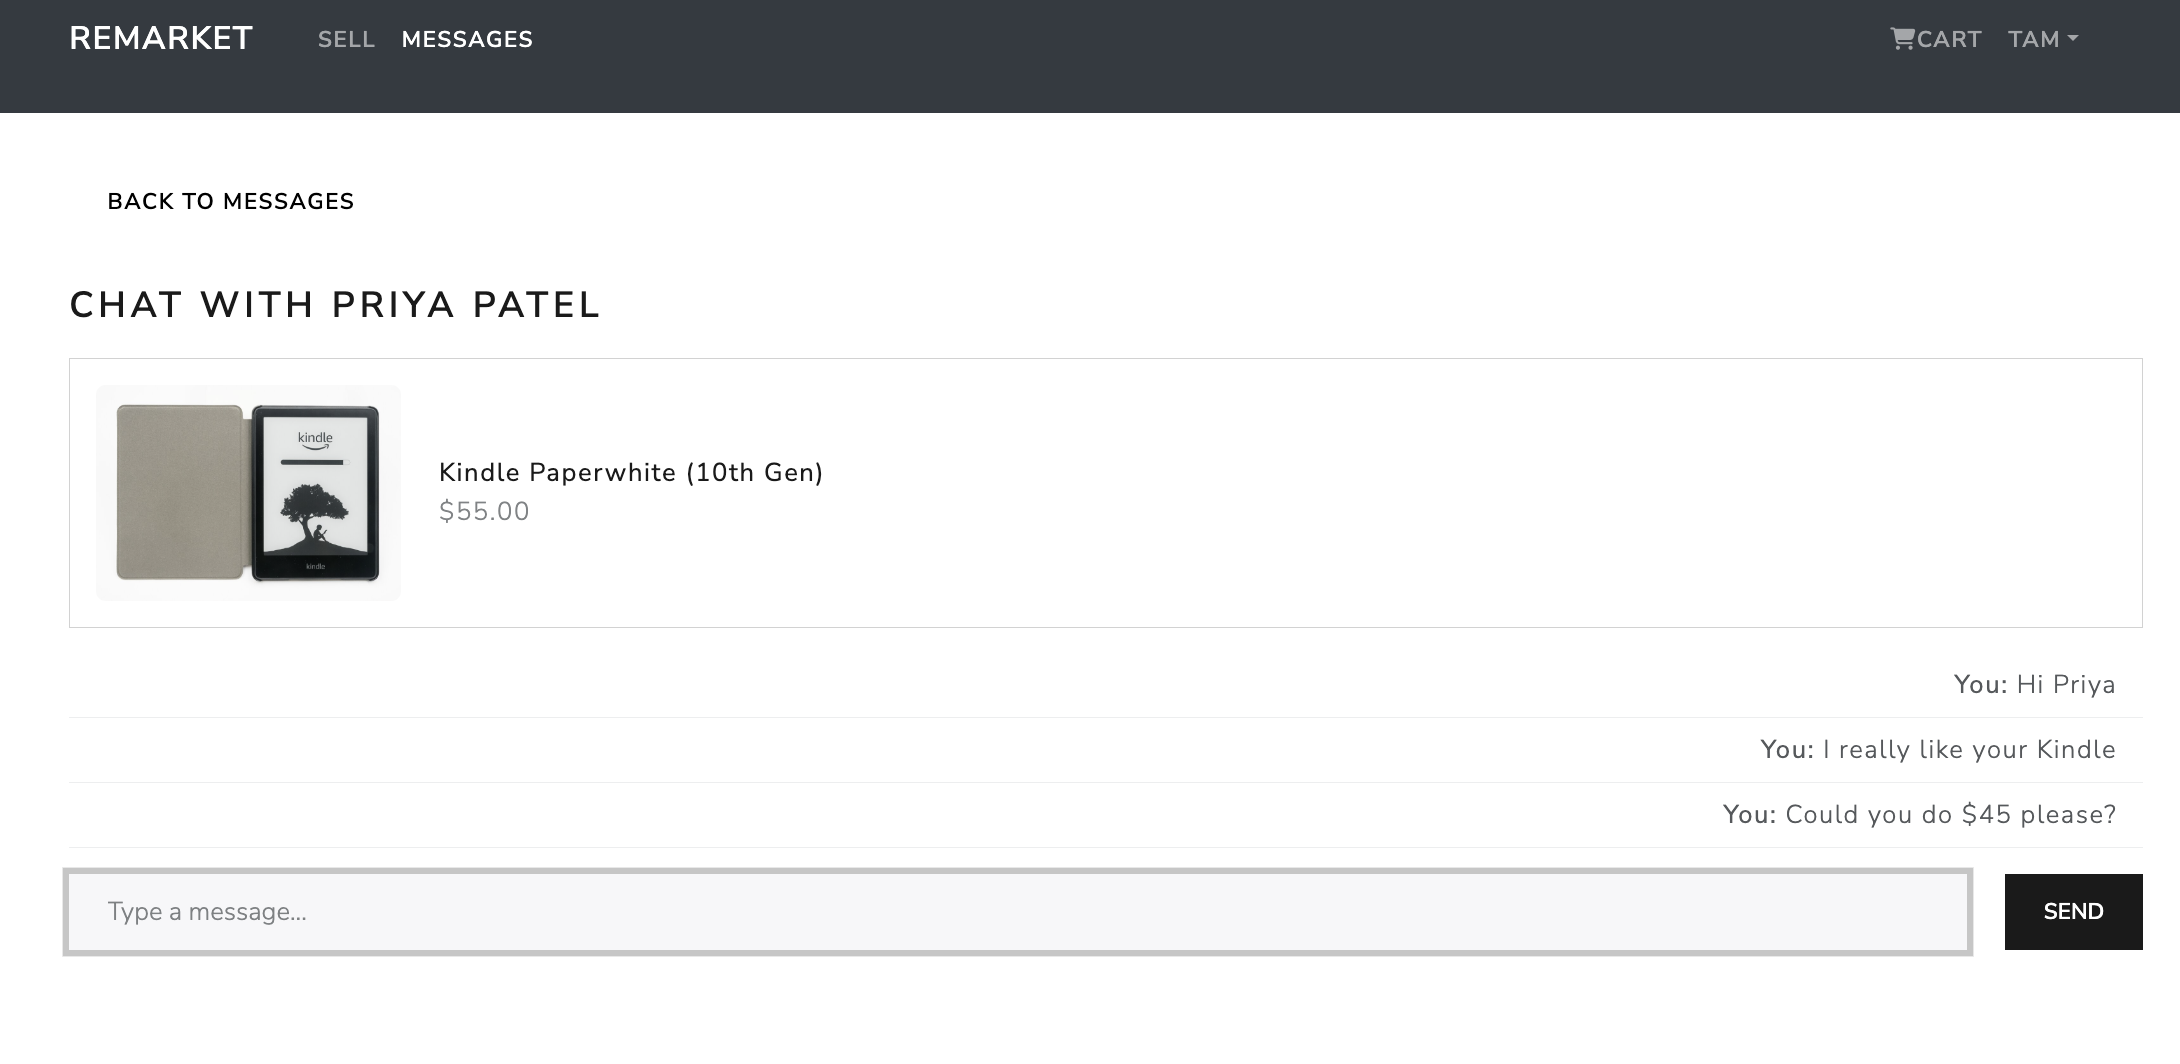
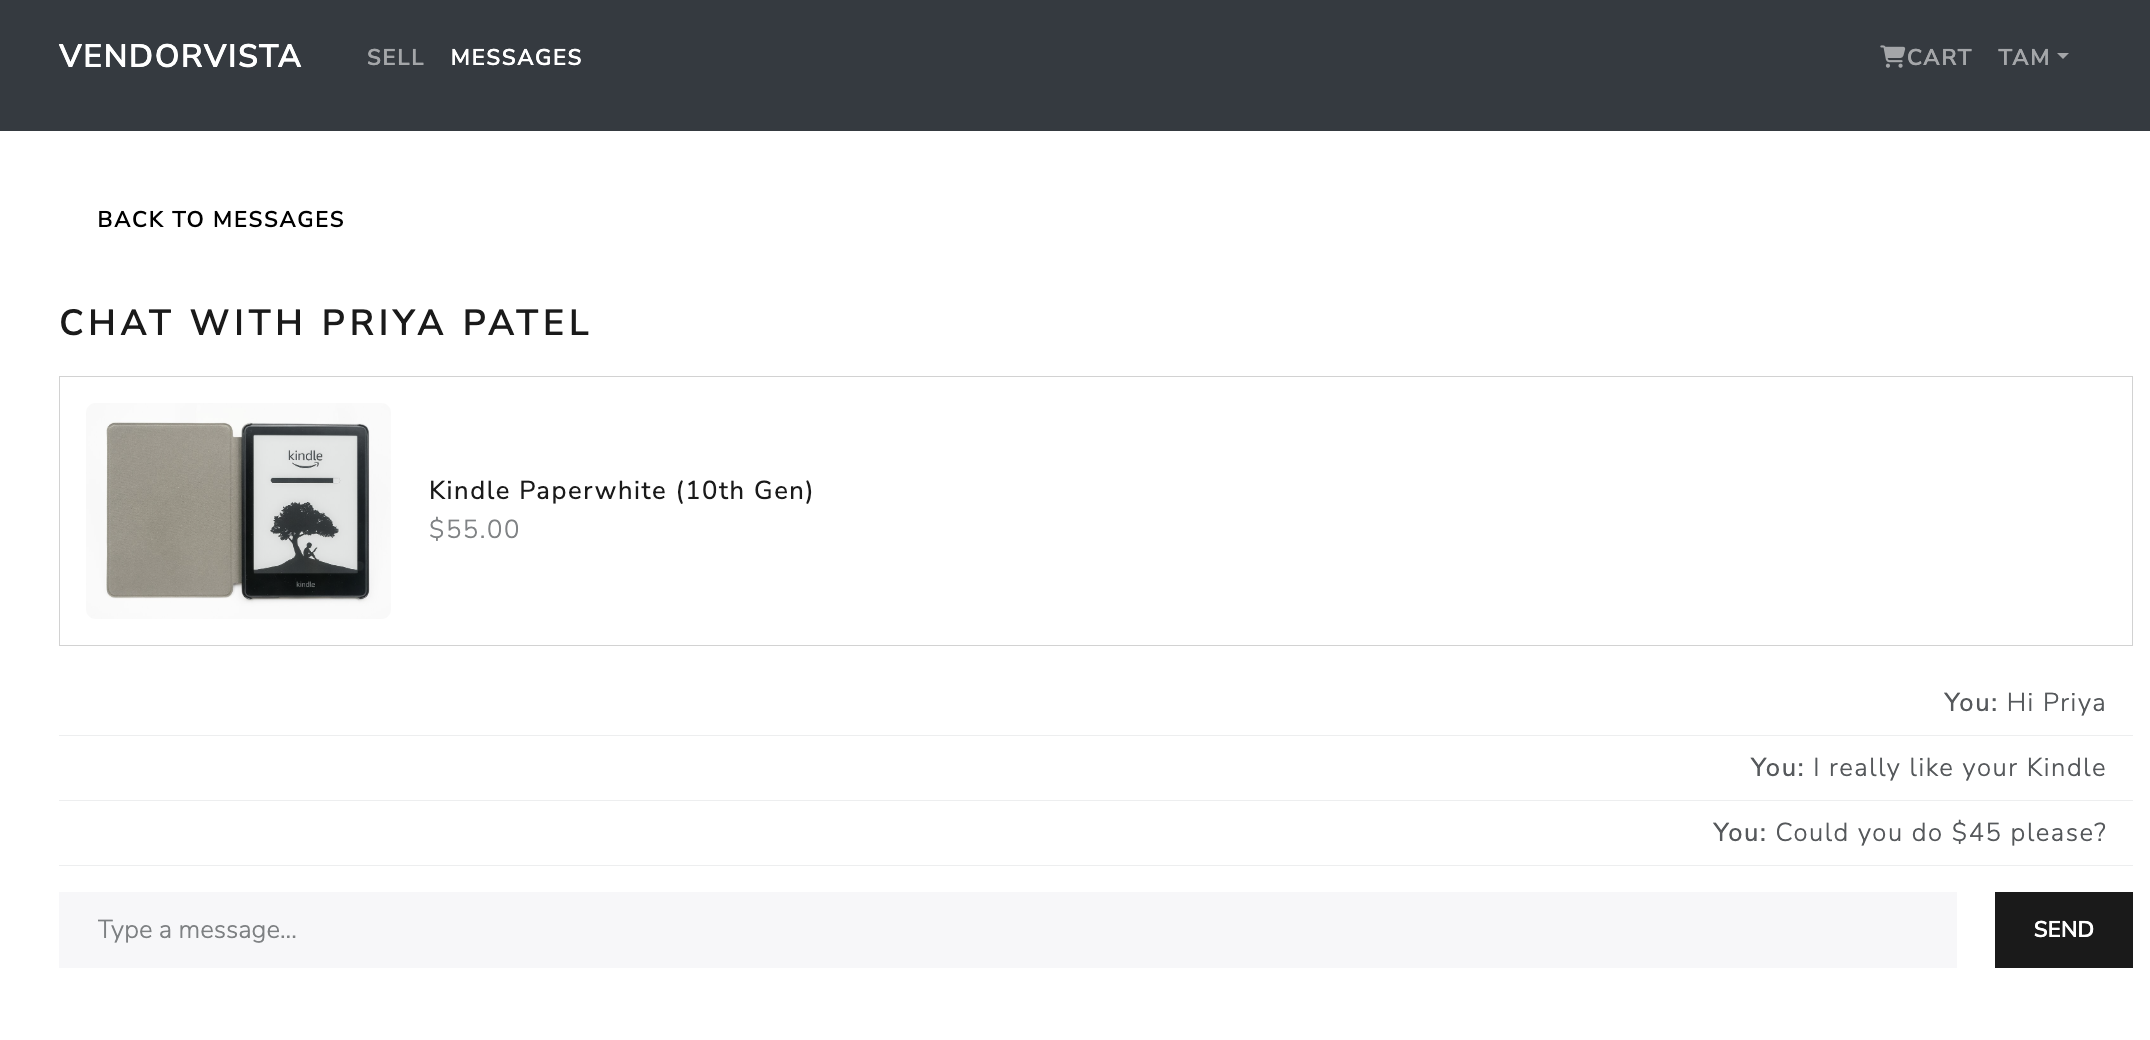
Rebrand to VendorVista, drop redundant product rating, update demo screenshots

diff --git a/frontend/src/screens/ProductScreen.js b/frontend/src/screens/ProductScreen.js
@@ -99,9 +99,6 @@ function ProductScreen() {
                         )}
                     </ListGroup.Item>
                     <ListGroup.Item>
-                        <Rating value={product.rating} text={`${product.numReviews} reviews`} color={'#f8e825'}/>
-                    </ListGroup.Item>
-                    <ListGroup.Item>
                         Price: ${product.price}
                     </ListGroup.Item>
                     {product.condition && (

diff --git a/frontend/src/components/Header.js b/frontend/src/components/Header.js
@@ -21,7 +21,7 @@ function Header() {
           <Navbar bg="dark" variant="dark" expand="lg" collapseOnSelect>
             <Container>
               <LinkContainer to="/">
-                <Navbar.Brand>ReMarket</Navbar.Brand>
+                <Navbar.Brand>VendorVista</Navbar.Brand>
               </LinkContainer>
               <Navbar.Toggle aria-controls="navbarScroll" />
               <Navbar.Collapse id="navbarScroll">

diff --git a/frontend/src/components/Footer.js b/frontend/src/components/Footer.js
@@ -7,7 +7,7 @@ function Footer() {
        <footer>
         <Container>
           <Row>
-            <Col className='text-center py-3'>Copy &copy; 2021 ProShop</Col>
+            <Col className='text-center py-3'>Copy &copy; 2026 VendorVista</Col>
           </Row>
         </Container>
        </footer>
